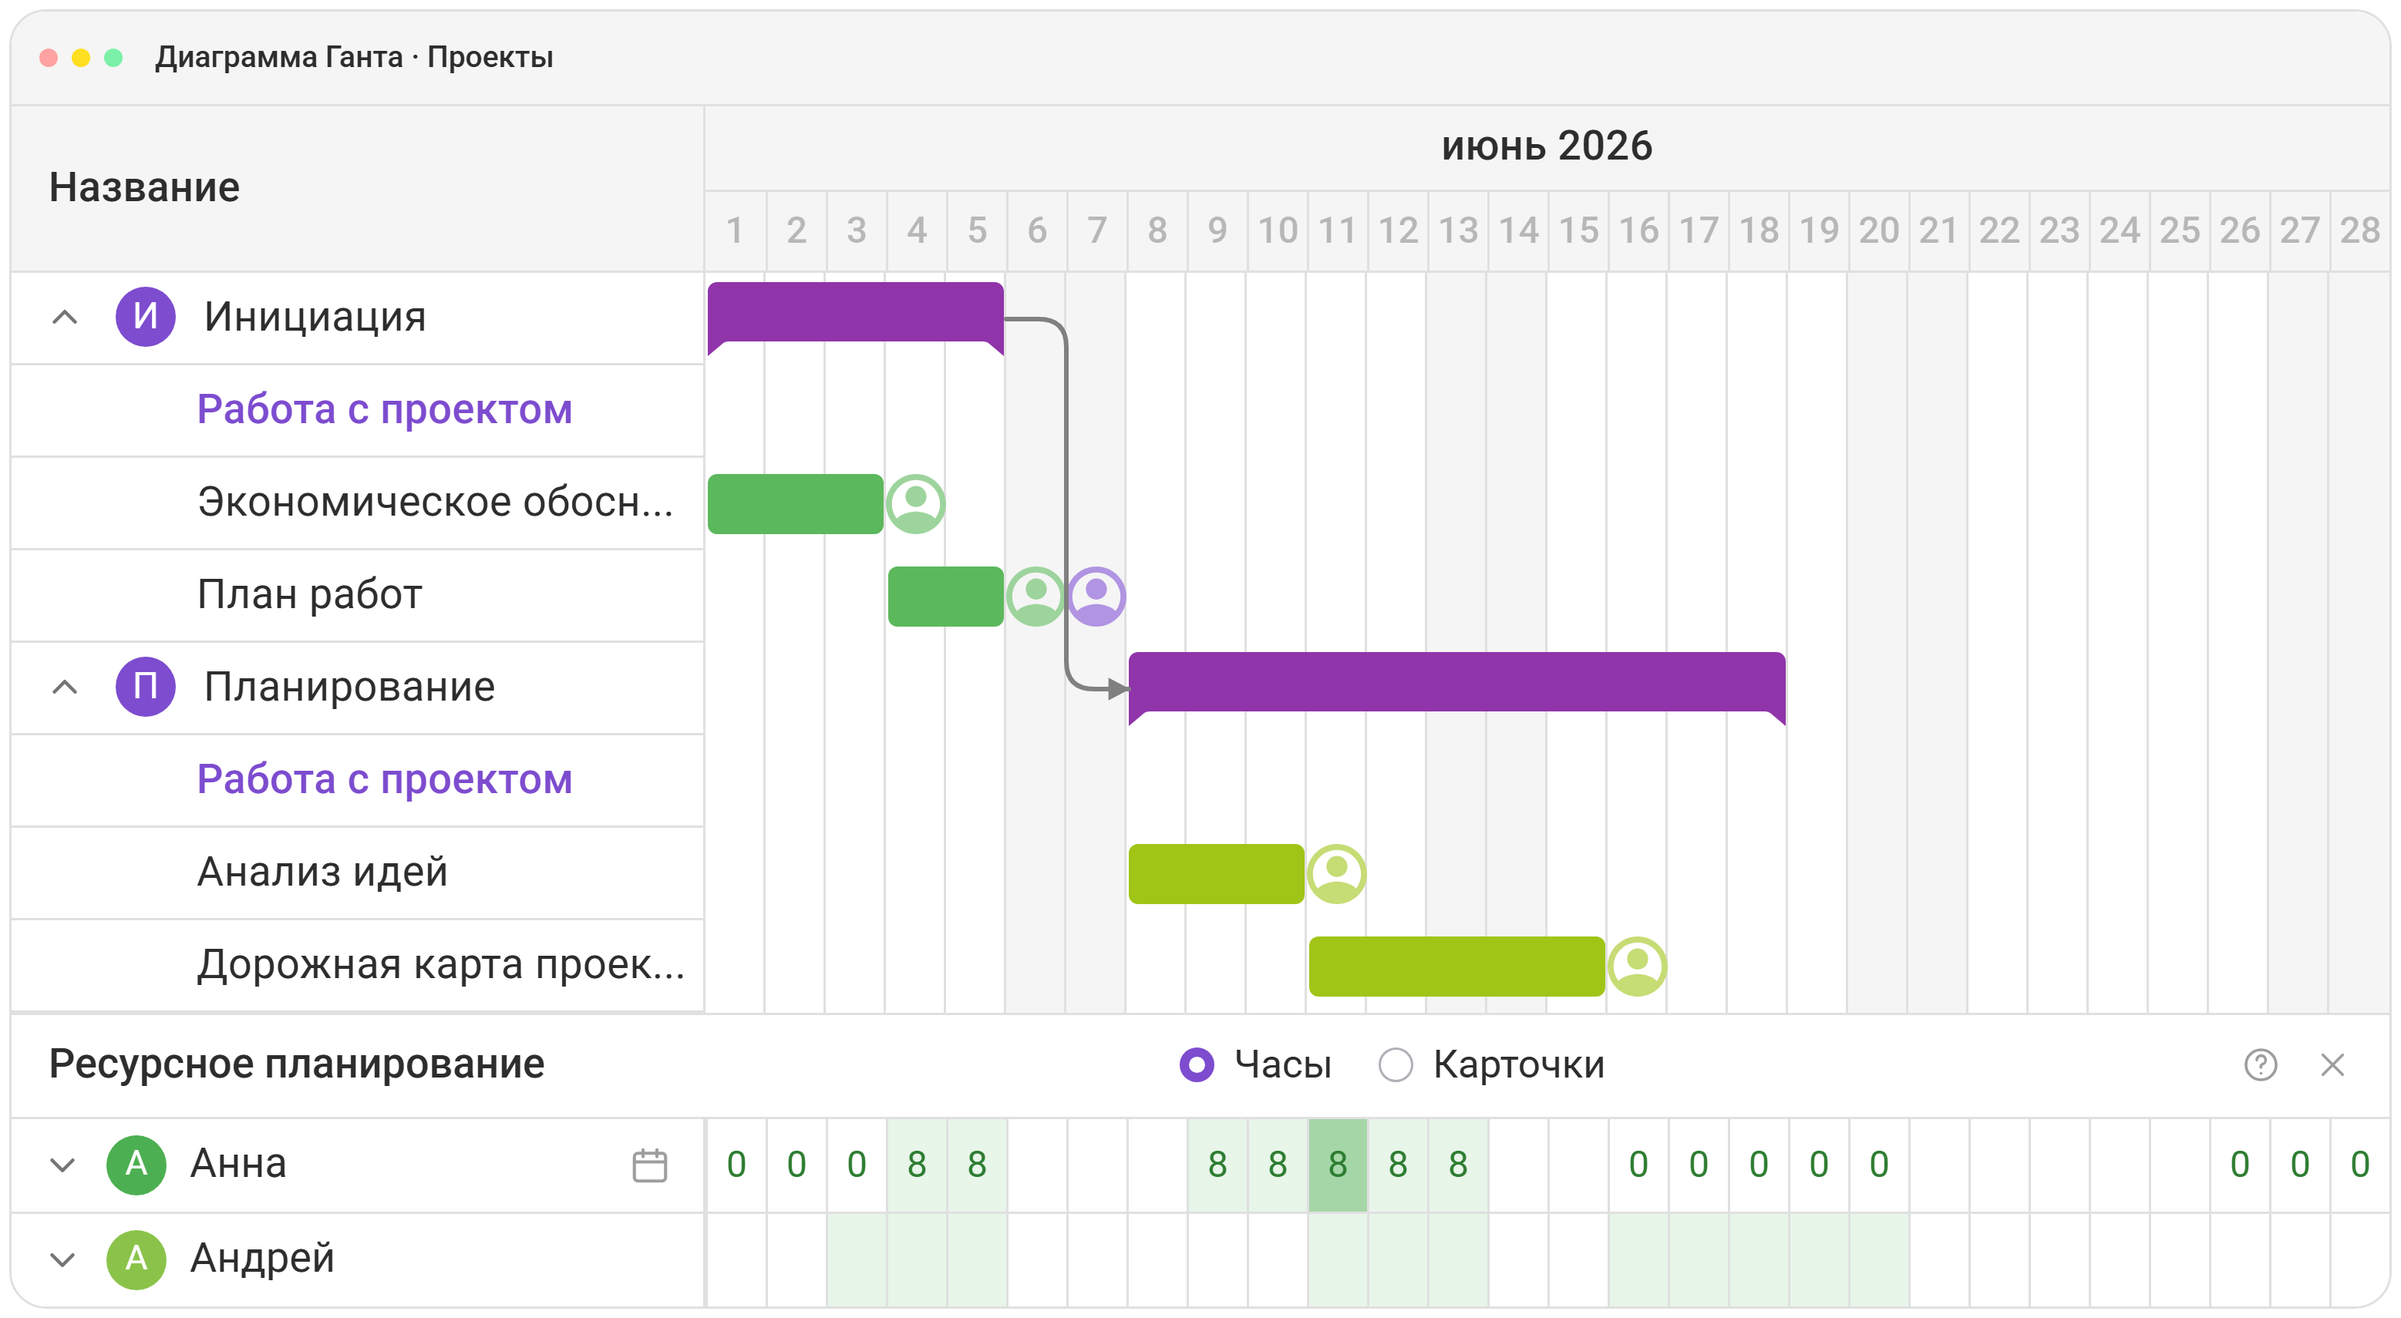
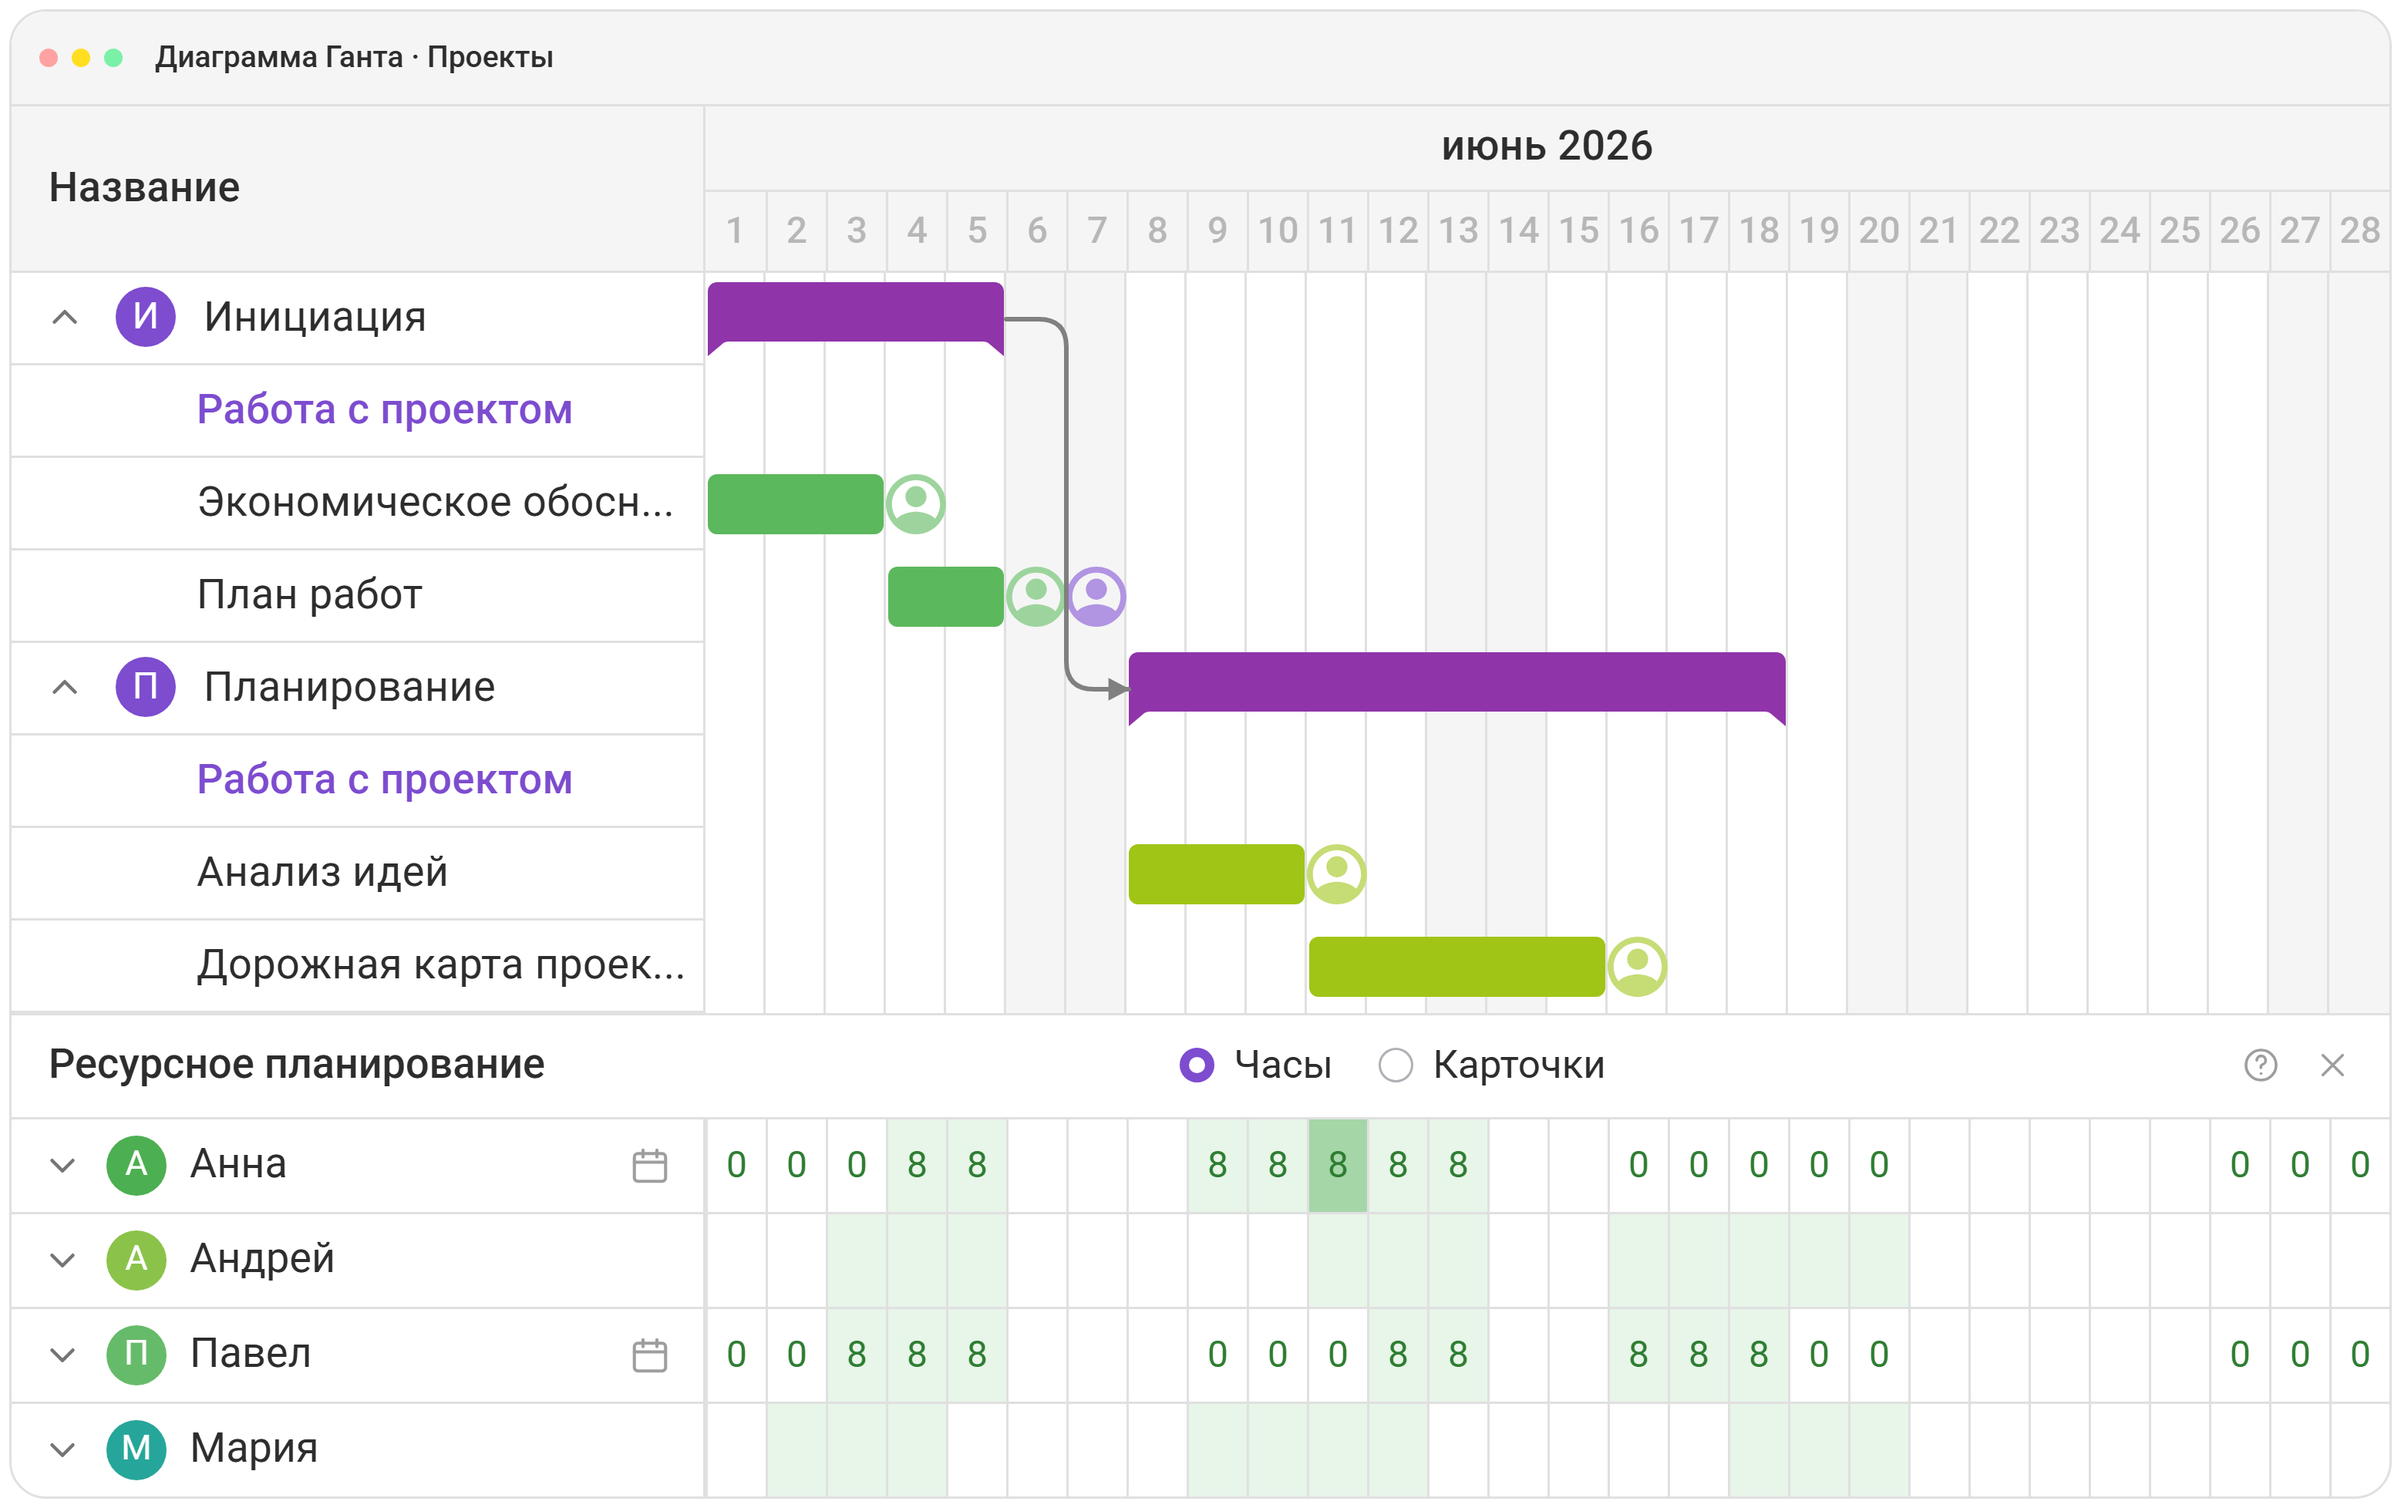
feat(presentation): четыре строки ресурсного планирования, центр блока кода
- слайд 10: в панель добавлены Павел с часами и Мария полосами занятости,
  всего четыре сотрудника; мокап 1956px высотой, блок остался в
  центрированной зоне;
- слайд 18: пример запроса встал по центру вертикали своей плашки —
  фрейм стал колоночным флексом, у блока кода вертикальные авто-поля.

diff --git a/design-system/presentation-v02/examples/kaiten-banks.html b/design-system/presentation-v02/examples/kaiten-banks.html
@@ -681,10 +681,10 @@
 
         <div class="cols-2" style="margin-top:2cqw">
           <div>
-            <div style="border-radius:.833cqw; background:var(--surface-frame); padding:1.8cqw; height:34.6cqw; overflow:hidden">
+            <div style="border-radius:.833cqw; background:var(--surface-frame); padding:1.8cqw; height:34.6cqw; overflow:hidden; display:flex; flex-direction:column">
               <h3 class="h2" style="margin-bottom:1.2cqw">Импорт задач в&nbsp;других сервисах</h3>
               <p class="body" style="margin-bottom:2.6cqw">Перенос описывается запросом к&nbsp;API, поля сопоставляются вручную</p>
-              <div style="background:#fff; border-radius:.63cqw; padding:1.2cqw 1.4cqw; font-family:var(--font-mono); font-size:.83cqw; line-height:1.45; color:#2d2d2d">
+              <div style="background:#fff; border-radius:.63cqw; padding:1.2cqw 1.4cqw; font-family:var(--font-mono); font-size:.83cqw; line-height:1.45; color:#2d2d2d; margin-block:auto">
                 <div style="min-height:1.1cqw">POST /v2/issues/_import</div>
                 <div style="min-height:1.1cqw">Authorization: OAuth &lt;token&gt;</div>
                 <div style="min-height:1.1cqw">Content-Type: application/json</div>
